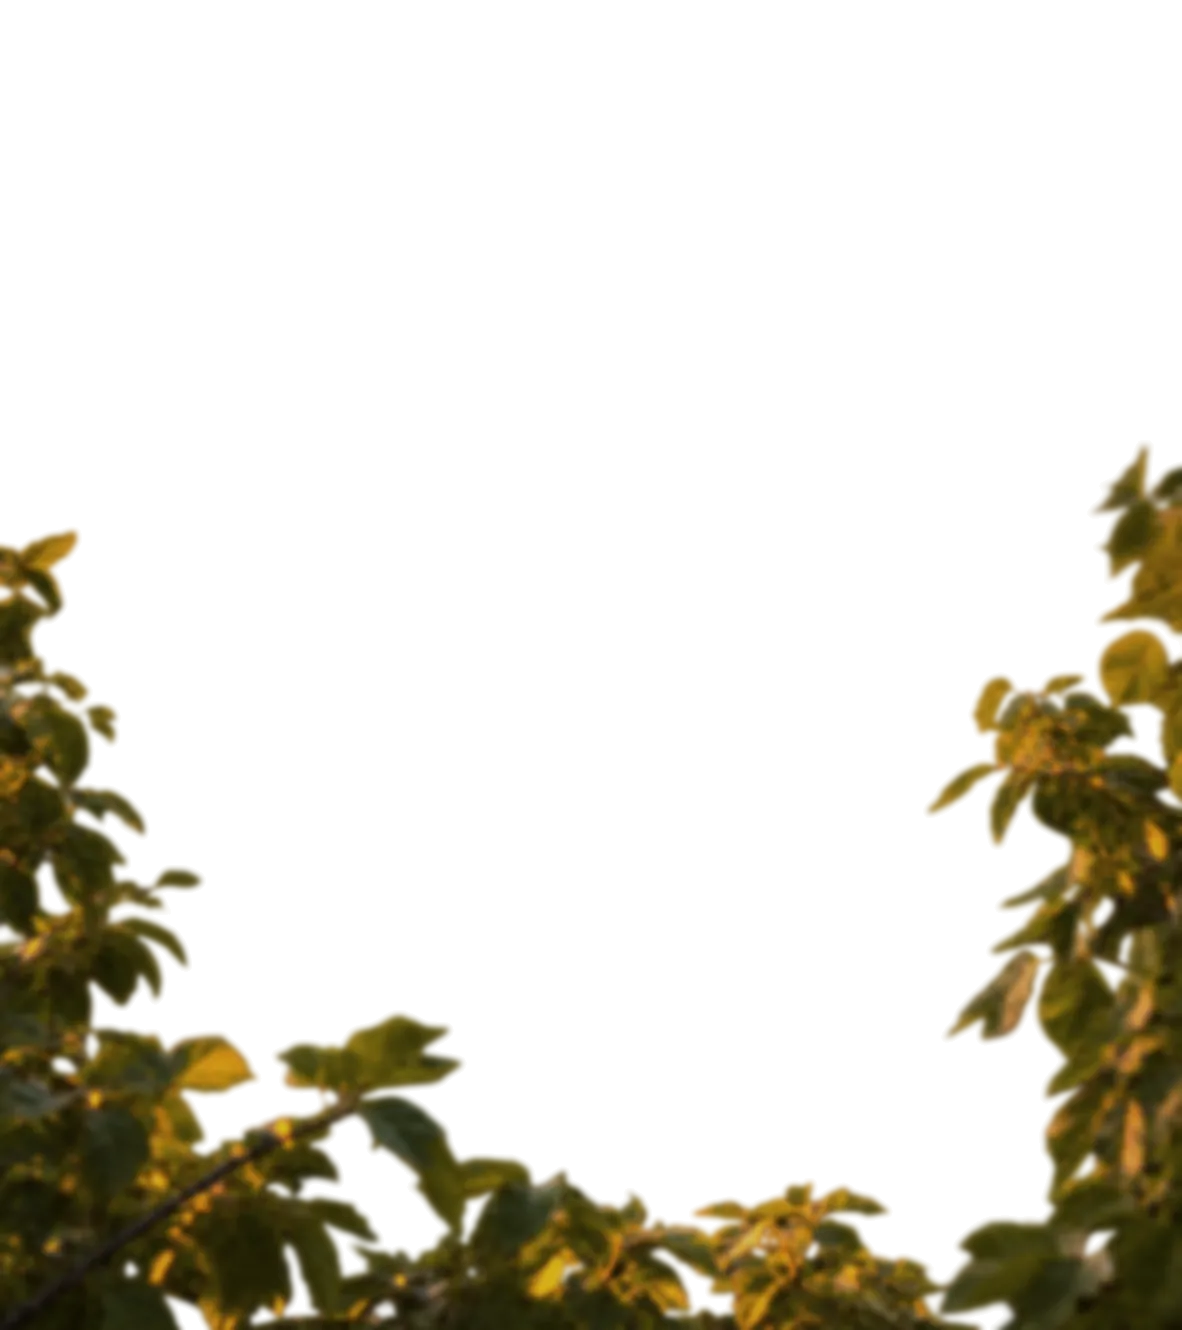
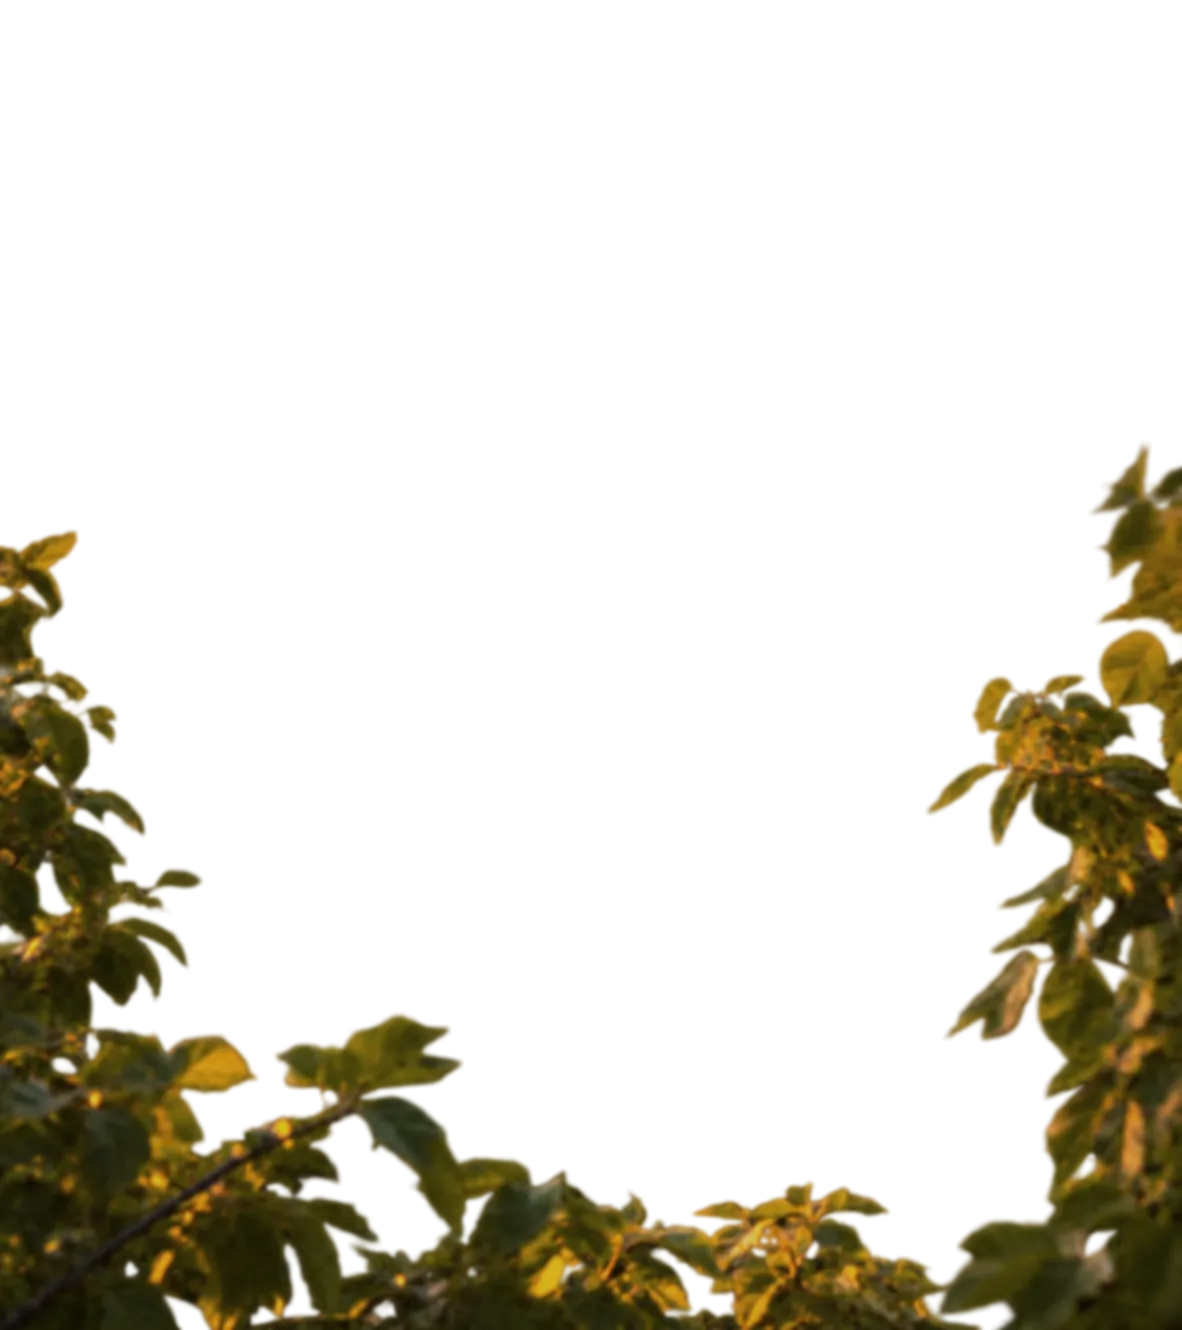
Landing without the pixel flash; scroll/swipe never skips the transition; softer leaves blur
- The desktop transition's very last frame is badly compressed (block-edge
  score 1.88 vs ~1.15 for every other frame; the phone's is worse too), and
  it's the frame held at the landing, sharp, before the darken began. The
  blur and darken now start with the landing (1.3s before the end), so by
  that frame it's already ~6px blurred: never seen sharp.
- Where autoplay is off (Safari's setting, Low Power Mode) a scroll-wheel
  turn can't start a video; that refusal used to skip straight to the
  world. Now it stays on the portal (a click plays it). Swipes on phones
  start on the lift, which browsers count as a tap.
- Safari's play button: the mist loop and the sky video stay invisible until
  they have really drawn a frame; underneath, the loop's still and the sky
  layer show. A refused autoplay shows the still, not a play button.
- Front leaves' baked depth-of-field blur halved (2.6px -> 1.3px), rebuilt
  from the unsoftened source, phone and desktop. MEDIA_V 1 -> 2 so cached
  copies refresh.
- No-scrollbar rule also covers <body> (Safari may take the page's
  scrollbar from it): no black strip down the right.

Claude-Session: https://claude.ai/code/session_0143LbhtK8SFX1oLkQGsq4zt

diff --git a/frontend/src/components/site/JahWorld.jsx b/frontend/src/components/site/JahWorld.jsx
@@ -168,11 +168,14 @@ export const JahWorld = ({ isMobile }) => {
   const [fading, setFading] = useState(false); // the held last frame is fading out
   const [holdGone, setHoldGone] = useState(false); // ... and gone (visibility: hidden)
   const [landingEarly, setLandingEarly] = useState(false);
+  const [loopShown, setLoopShown] = useState(false); // the mist loop has drawn a frame (until then: its still)
+  const [skyShown, setSkyShown] = useState(false); // the sky video has drawn a frame (until then: the sky layer)
   const [portalGone, setPortalGone] = useState(false); // the portal's fades are done: stop painting it
   const [reduce] = useState(() => typeof window !== "undefined" && window.matchMedia("(prefers-reduced-motion: reduce)").matches);
 
   const stageRef = useRef(null);
   const loopRef = useRef(null);
+  const loopStillRef = useRef(null);
   const benRef = useRef(null);
   const transitionRef = useRef(null);
   const recoveredRef = useRef(null);
@@ -205,7 +208,11 @@ export const JahWorld = ({ isMobile }) => {
     const t = setTimeout(() => setWarm(true), WARM_FALLBACK_MS);
     return () => clearTimeout(t);
   }, [warm]);
-  const onLoopPlaying = (e) => afterFirstFrame(e.currentTarget, () => setTimeout(() => setWarm(true), WARM_DELAY_MS));
+  const onLoopPlaying = (e) =>
+    afterFirstFrame(e.currentTarget, () => {
+      setLoopShown(true);
+      setTimeout(() => setWarm(true), WARM_DELAY_MS);
+    });
 
   useEffect(() => {
     if (!warm) return;
@@ -304,12 +311,25 @@ export const JahWorld = ({ isMobile }) => {
     setPhase("world");
   };
 
-  const playTransition = (v) =>
-    v.play().catch(() => {
-      if (!v.src.startsWith("blob:")) return enterWorld();
+  // A browser only lets a video start from a real tap/click/key. A wheel turn
+  // isn't one, so where autoplay is off (Safari's setting, Low Power Mode) the
+  // play is refused: then stay on the portal (a click plays it) instead of
+  // skipping straight to the world.
+  const backToPortal = () => {
+    clearTimeout(failsafeRef.current);
+    clearInterval(stallRef.current);
+    enteringRef.current = false;
+    setEntered(false);
+    setPhase("portal");
+  };
+  const playTransition = (v, soft) => {
+    const fail = soft ? backToPortal : enterWorld;
+    return v.play().catch(() => {
+      if (!v.src.startsWith("blob:")) return fail();
       v.src = S.transition.src;
-      v.play().catch(enterWorld);
+      v.play().catch(fail);
     });
+  };
 
   // every 250ms: resume if iOS paused it; if its clock is stuck, kick once, then move on
   const watchStall = (first) => {
@@ -434,7 +454,7 @@ export const JahWorld = ({ isMobile }) => {
     return () => clearTimeout(t);
   }, [phase, fading]);
 
-  const enter = () => {
+  const enter = (soft = false) => {
     if (enteringRef.current || phaseRef.current !== "portal") return;
     enteringRef.current = true;
     setWarm(true);
@@ -444,7 +464,7 @@ export const JahWorld = ({ isMobile }) => {
     // tapped before the download landed (or autoplay was refused, so it never started): stream it, inside the tap
     if (!v.getAttribute("src")) v.src = S.transition.src;
     setPhase("transition");
-    playTransition(v);
+    playTransition(v, soft);
     watchStall(v);
     failsafeRef.current = setTimeout(enterWorld, TRANSITION_FAILSAFE_MS);
   };
@@ -455,7 +475,8 @@ export const JahWorld = ({ isMobile }) => {
     const inHeader = (e) => e.target?.closest?.("header");
     let y0 = null;
     let moved = false;
-    const onWheel = (e) => e.deltaY > 4 && enter();
+    let swiped = false;
+    const onWheel = (e) => e.deltaY > 4 && enter(true);
     const onTS = (e) => {
       if (inHeader(e)) return;
       y0 = e.touches[0].clientY;
@@ -464,10 +485,12 @@ export const JahWorld = ({ isMobile }) => {
     const onTM = (e) => {
       if (y0 == null) return;
       if (Math.abs(e.touches[0].clientY - y0) > 10) moved = true;
-      if (y0 - e.touches[0].clientY > 24) enter();
+      if (y0 - e.touches[0].clientY > 24) swiped = true;
     };
     const onTE = (e) => {
-      if (y0 != null && !moved && !inHeader(e)) enter();
+      // a tap, or a swipe up: started on the lift, which browsers count as a tap
+      if (y0 != null && (!moved || swiped) && !inHeader(e)) enter();
+      swiped = false;
       y0 = null;
     };
     const onClick = (e) => {
@@ -606,6 +629,7 @@ export const JahWorld = ({ isMobile }) => {
           benRef.current.style.transform = `translate3d(${(px * D).toFixed(1)}px, ${((1 - py) * 6 * reduceM).toFixed(1)}px, 0) scale(${(1 + 0.045 * py * reduceM).toFixed(4)})`;
         if (loopRef.current)
           loopRef.current.style.transform = `translate3d(${(-px * D * 0.4).toFixed(1)}px, ${(-py * 2 * reduceM).toFixed(1)}px, 0) scale(${(1 + 0.012 * py * reduceM).toFixed(4)})`;
+        if (loopStillRef.current && loopRef.current) loopStillRef.current.style.transform = loopRef.current.style.transform;
       }
 
       // ---- the world ----
@@ -774,6 +798,8 @@ export const JahWorld = ({ isMobile }) => {
                     <video
                       ref={skyVideoRef}
                       className="h-full w-full object-fill"
+                      style={{ opacity: skyShown ? 1 : 0 }}
+                      onPlaying={(ev) => afterFirstFrame(ev.currentTarget, () => setSkyShown(true))}
                       src={loadWorld ? S.sky.src : undefined}
                       poster={loadWorld ? S.sky.poster : undefined}
                       muted
@@ -796,9 +822,14 @@ export const JahWorld = ({ isMobile }) => {
         {/* ---------- portal: the mist loop ---------- */}
         <div className="absolute inset-0" style={{ visibility: portalVisible ? "visible" : "hidden" }}>
           <div ref={(el) => (rectRefs.current.loop = el)} className={`${abs} overflow-visible`}>
+            {/* the still sits underneath; the video stays invisible until it really plays, so
+                when a browser refuses autoplay (Safari, Low Power Mode) you see the still,
+                never the browser's own play button */}
+            <img ref={loopStillRef} src={S.portal.poster} alt="" aria-hidden draggable={false} className="absolute inset-0 h-full w-full select-none object-fill will-change-transform" />
             <video
               ref={loopRef}
-              className="h-full w-full object-fill will-change-transform"
+              className="relative h-full w-full object-fill will-change-transform"
+              style={{ opacity: loopShown ? 1 : 0 }}
               src={S.portal.loop}
               poster={S.portal.poster}
               muted
@@ -819,8 +850,10 @@ export const JahWorld = ({ isMobile }) => {
           className={abs}
           style={{
             opacity: transitionShown && !fading ? 1 : 0,
-            filter: inWorld ? "blur(6px) brightness(0.5)" : "none",
-            transition: fading ? "opacity 0.9s ease, filter 1.2s ease" : inWorld ? "opacity 0.45s ease, filter 1.2s ease" : "opacity 0.45s ease",
+            // blurs and darkens as the landing starts (1.3s before the end), not after:
+            // the clip's very last frame is badly compressed, so it's never seen sharp
+            filter: inWorld || landingEarly ? "blur(6px) brightness(0.5)" : "none",
+            transition: fading ? "opacity 0.9s ease, filter 1.2s ease" : inWorld || landingEarly ? "opacity 0.45s ease, filter 1.2s ease" : "opacity 0.45s ease",
             visibility: entered && !(holdGone && inWorld) ? "visible" : "hidden",
           }}
         >

diff --git a/frontend/src/index.css b/frontend/src/index.css
@@ -637,3 +637,7 @@ video::-webkit-media-controls-start-playback-button {
    (a pixelated flash and a shift to the left). Burnell's fix. */
 html.no-scrollbar { scrollbar-width: none; }
 html.no-scrollbar::-webkit-scrollbar { display: none; }
+/* (Safari can take the page's scrollbar from <body>: hide it there too) */
+html.no-scrollbar body { scrollbar-width: none; }
+html.no-scrollbar body::-webkit-scrollbar,
+html.no-scrollbar::-webkit-scrollbar { width: 0; height: 0; display: none; }

diff --git a/frontend/src/data/site.js b/frontend/src/data/site.js
@@ -247,7 +247,7 @@ export const TRACKING_PIXEL_IDS = {
 // through -> the layered world, which scroll then drives (Burnell's pattern;
 // see docs in JahWorld.jsx). All media is under public/world. Bump MEDIA_V
 // whenever any of those files is re-encoded, or phones keep the old copy.
-export const MEDIA_V = 1;
+export const MEDIA_V = 2;
 const v = (p) => `${p}?v=${MEDIA_V}`;
 
 // Rects are [x, y, w, h] in the world canvas's pixels: where each video's
